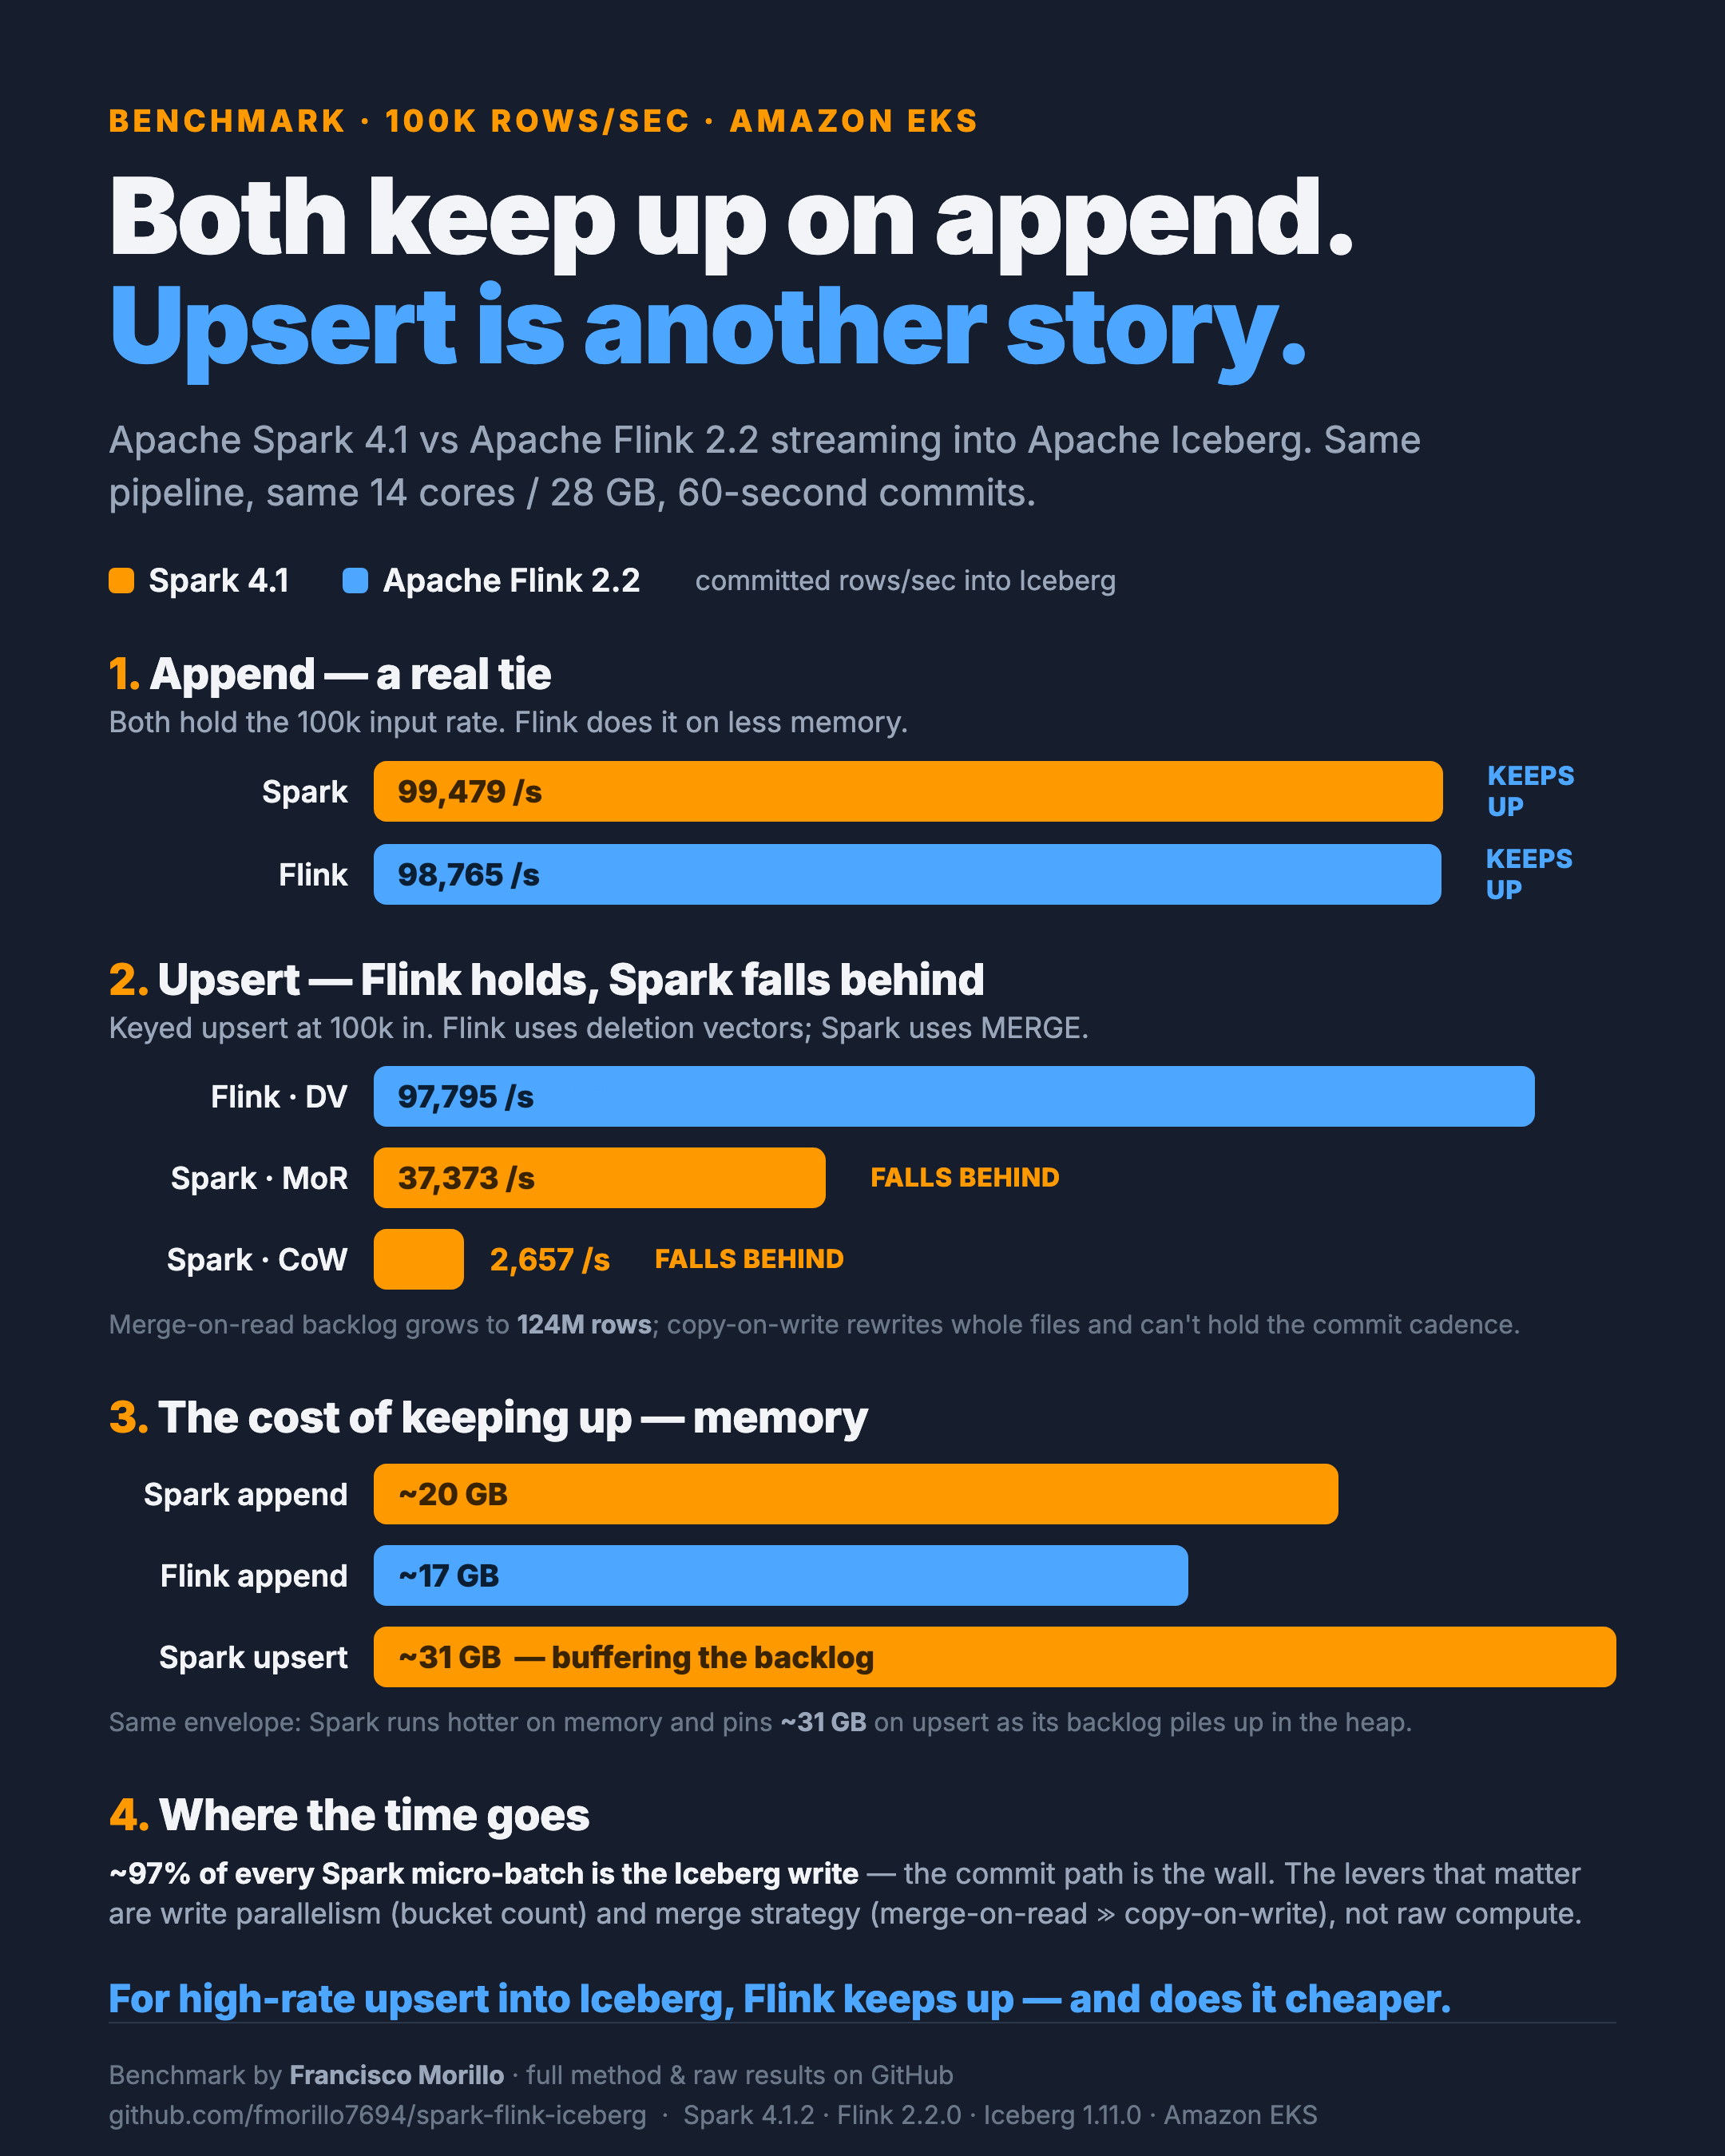
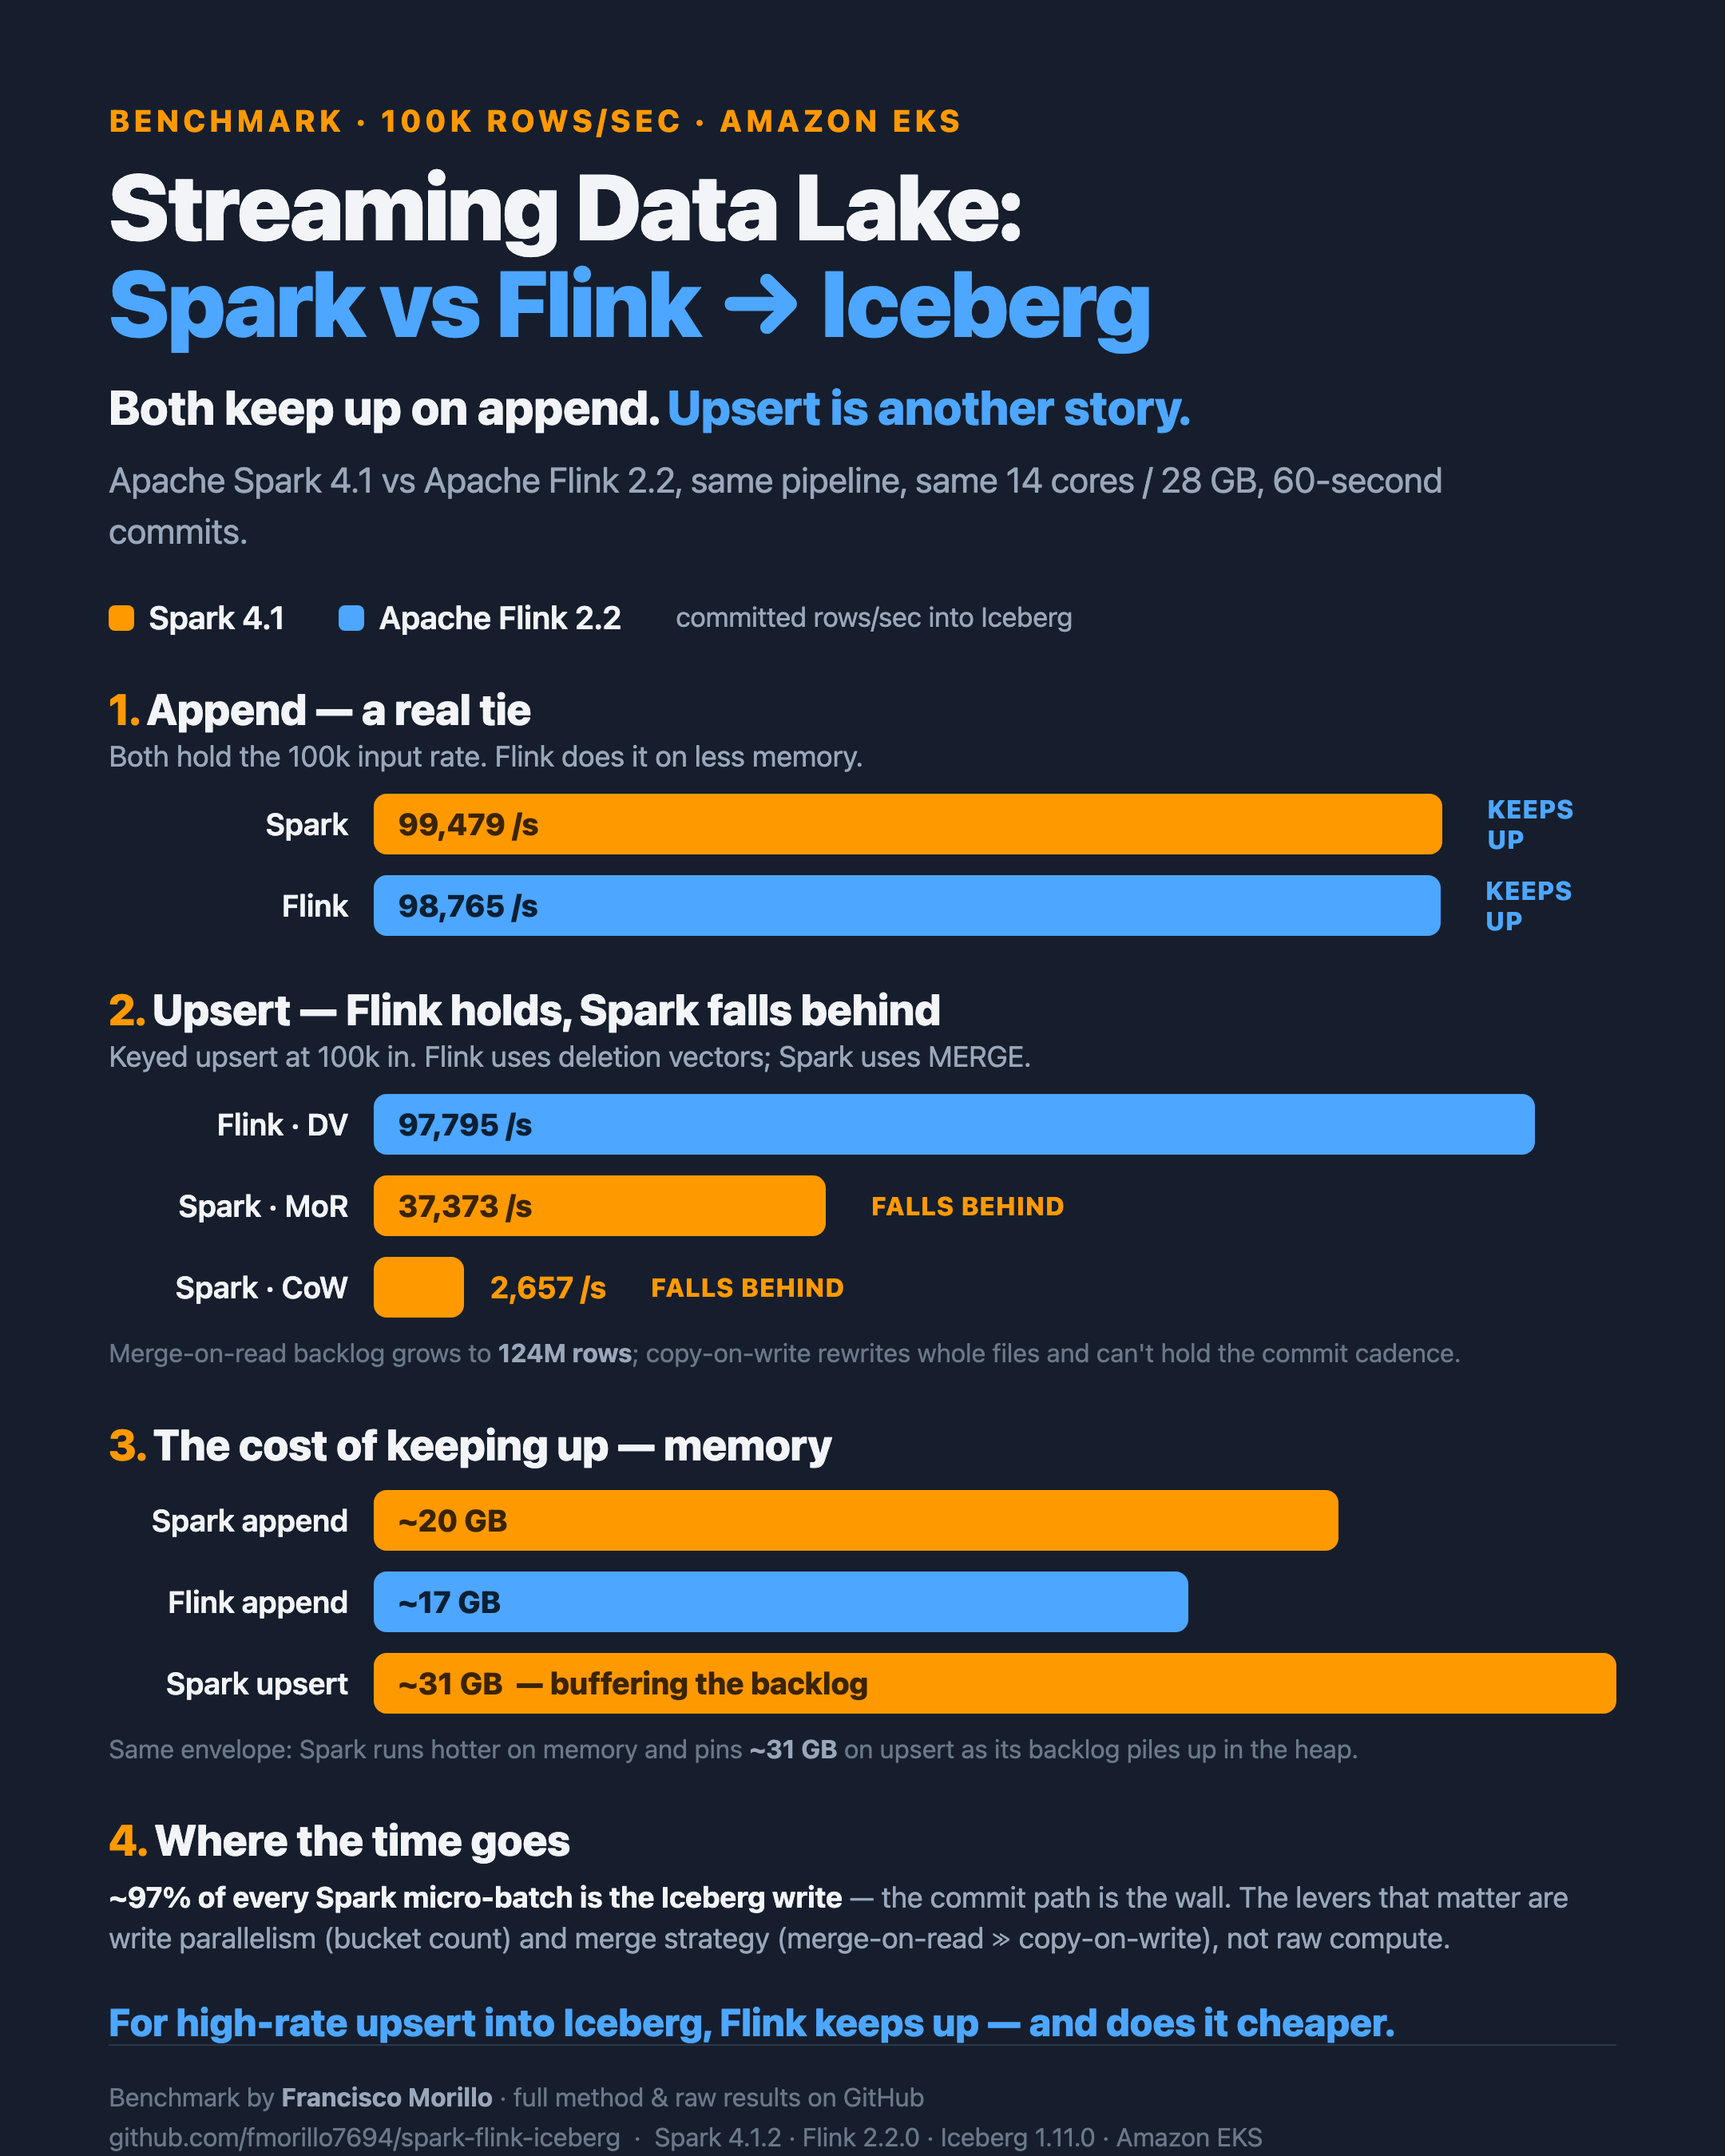
Card: lead with post title, keep append/upsert finding as subhead

diff --git a/blog/summary_card.html b/blog/summary_card.html
@@ -22,7 +22,9 @@
   .kicker{ color:var(--spark); font-weight:800; font-size:19px; letter-spacing:.14em; text-transform:uppercase; }
   h1{ font-size:66px; line-height:1.04; font-weight:900; letter-spacing:-.02em; margin-top:14px; }
   h1 .g{ color:var(--flink); }
-  .sub{ color:var(--muted); font-size:23px; line-height:1.45; margin-top:20px; font-weight:400; max-width:900px; }
+  .finding{ font-size:30px; font-weight:800; letter-spacing:-.01em; margin-top:18px; color:var(--ink); }
+  .finding .fg{ color:var(--flink); }
+  .sub{ color:var(--muted); font-size:22px; line-height:1.45; margin-top:12px; font-weight:400; max-width:900px; }
   .legend{ display:flex; gap:34px; margin-top:26px; font-size:20px; font-weight:600; align-items:center; }
   .legend .dot{ display:inline-block; width:16px; height:16px; border-radius:4px; margin-right:9px; vertical-align:-1px; }
   .sec{ margin-top:30px; }
@@ -51,9 +53,10 @@
 <body>
 <div class="card">
   <div class="kicker">Benchmark · 100K rows/sec · Amazon EKS</div>
-  <h1>Both keep up on append.<br><span class="g">Upsert is another story.</span></h1>
-  <div class="sub">Apache Spark 4.1 vs Apache Flink 2.2 streaming into Apache Iceberg.
-  Same pipeline, same 14 cores / 28 GB, 60-second commits.</div>
+  <h1 style="font-size:58px;margin-top:12px">Streaming Data Lake:<br><span class="g">Spark vs Flink → Iceberg</span></h1>
+  <div class="finding">Both keep up on append. <span class="fg">Upsert is another story.</span></div>
+  <div class="sub">Apache Spark 4.1 vs Apache Flink 2.2, same pipeline, same 14 cores / 28 GB,
+  60-second commits.</div>
 
   <div class="legend">
     <span><span class="dot" style="background:var(--spark)"></span>Spark 4.1</span>